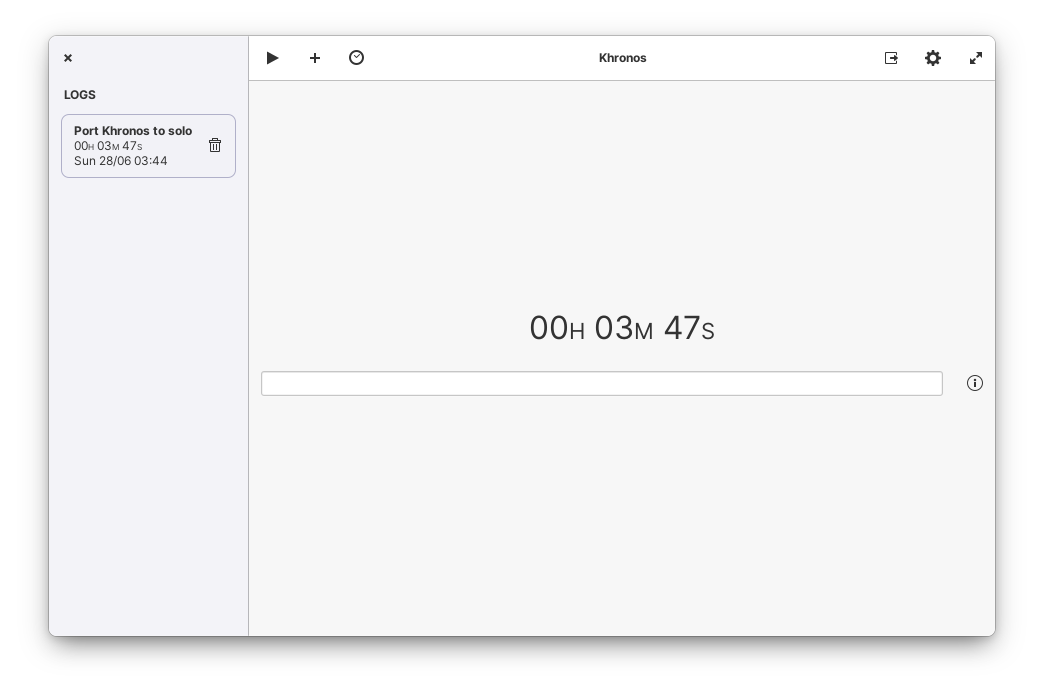
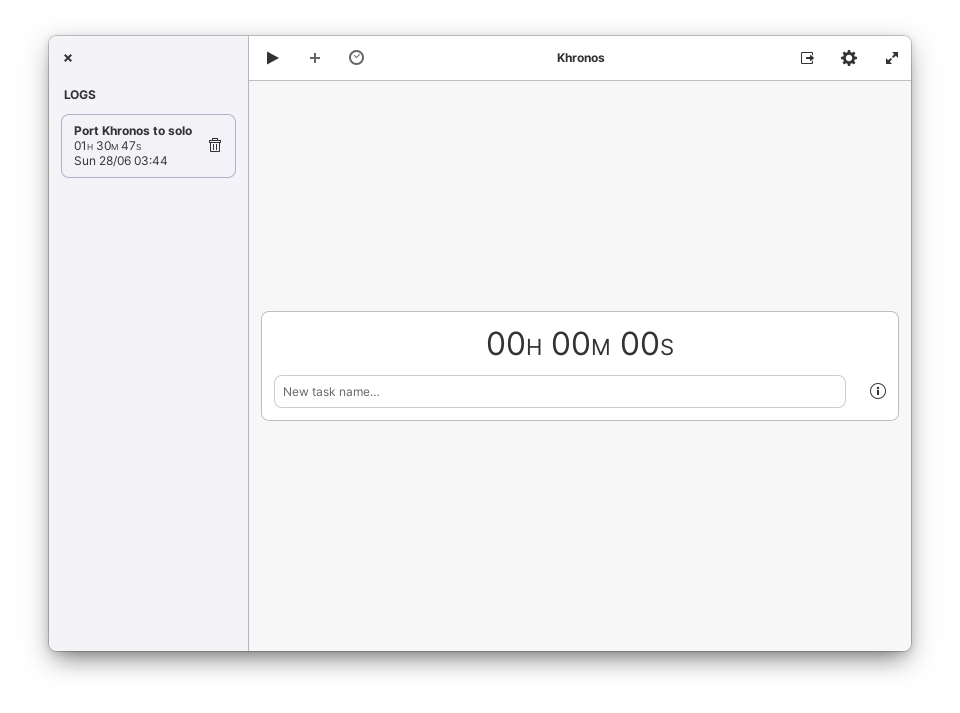
*

diff --git a/data/stylesheet.css b/data/stylesheet.css
@@ -27,6 +27,19 @@ window.unified decoration-overlay {
     color: @fg_color;
 }
 
+.tt-card {
+    box-shadow: none;
+    border-radius: 8px;
+    border: 1px solid alpha(black, 0.25);
+}
+
+.tt-entry {
+    border-radius: 8px;
+    box-shadow: none;
+    padding: 8px;
+    background: shade(@color_primary, 1.2);
+}
+
 .tt-box:hover {
     padding: 2px;
     margin: 6px;
